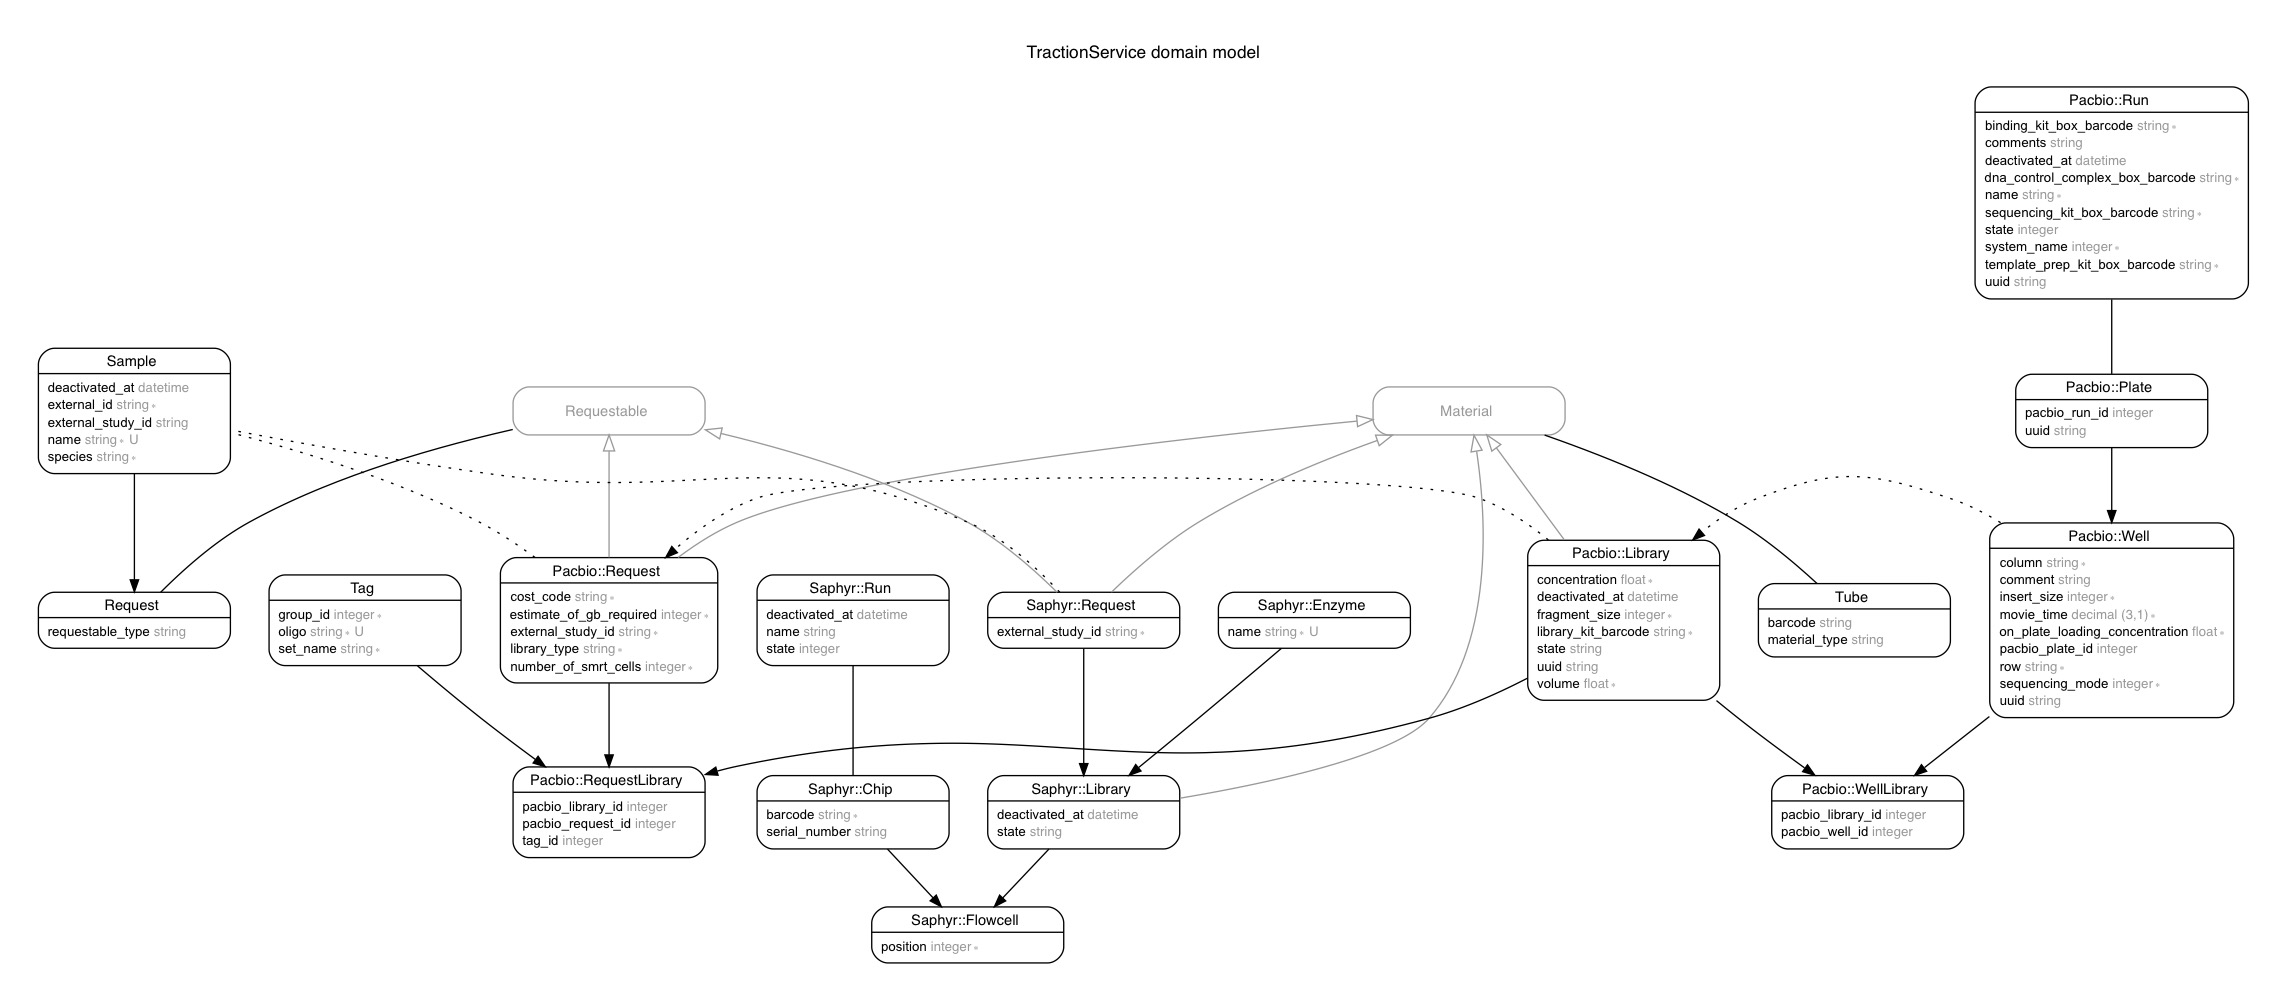
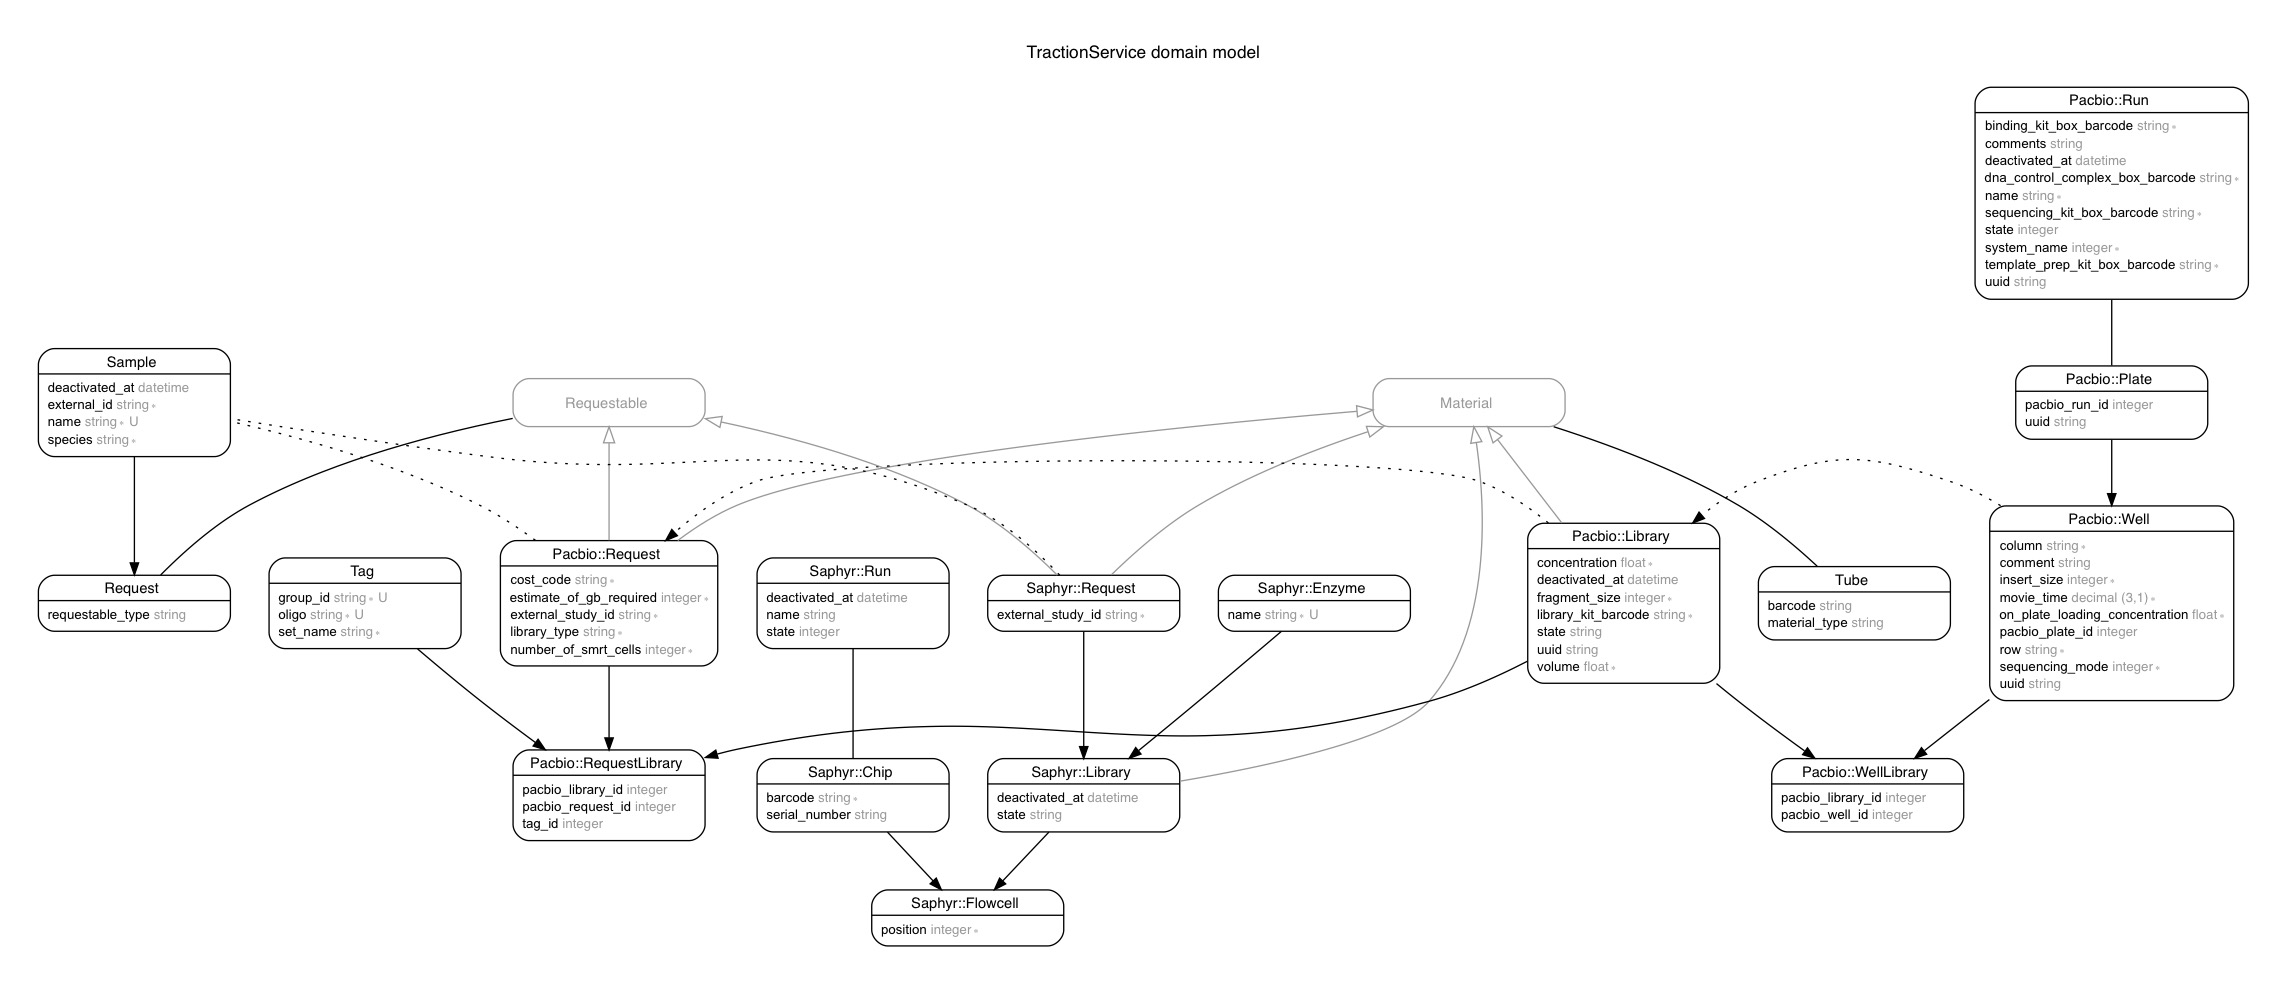
Made request attributes optional.

diff --git a/spec/support/pipelines/requestor_model.rb b/spec/support/pipelines/requestor_model.rb
@@ -10,7 +10,7 @@ shared_examples_for 'requestor model' do
     expect(create(model).sample_name).to be_present
   end
 
-  modual.request_attributes.each do |attribute|
+  modual.required_request_attributes.each do |attribute|
     it "is not valid without #{attribute.to_s.gsub('_', ' ')}" do
       factory = build(model)
       factory.send("#{attribute}=", nil)

diff --git a/app/pipelines/pipelines/requestor/model.rb b/app/pipelines/pipelines/requestor/model.rb
@@ -21,7 +21,7 @@ module Pipelines
         delegate :name, to: :sample, prefix: :sample
         delegate :species, to: :sample, prefix: :sample
 
-        validates(*to_s.deconstantize.constantize.request_attributes, presence: true)
+        validates(*to_s.deconstantize.constantize.required_request_attributes, presence: true)
       end
     end
   end

diff --git a/spec/support/pipelines/requestor_controller.rb b/spec/support/pipelines/requestor_controller.rb
@@ -128,6 +128,10 @@ shared_examples_for 'requestor controller' do
     end
   end
 
+  # context '#update' do
+  #   let!(:pipeline_request) { create(request_factory) }
+  # end
+
   context '#destroy' do
 
     let!(:pipeline_request) { create(request_factory) }

diff --git a/app/saphyr/saphyr.rb b/app/saphyr/saphyr.rb
@@ -11,4 +11,10 @@ module Saphyr
       :external_study_id
     ]
   end
+
+   def self.required_request_attributes
+    [
+      :external_study_id
+    ]
+  end
 end

diff --git a/app/pacbio/pacbio.rb b/app/pacbio/pacbio.rb
@@ -12,4 +12,10 @@ module Pacbio
       external_study_id
     ]
   end
+
+  def self.required_request_attributes
+    [
+      :external_study_id
+    ]
+  end
 end
